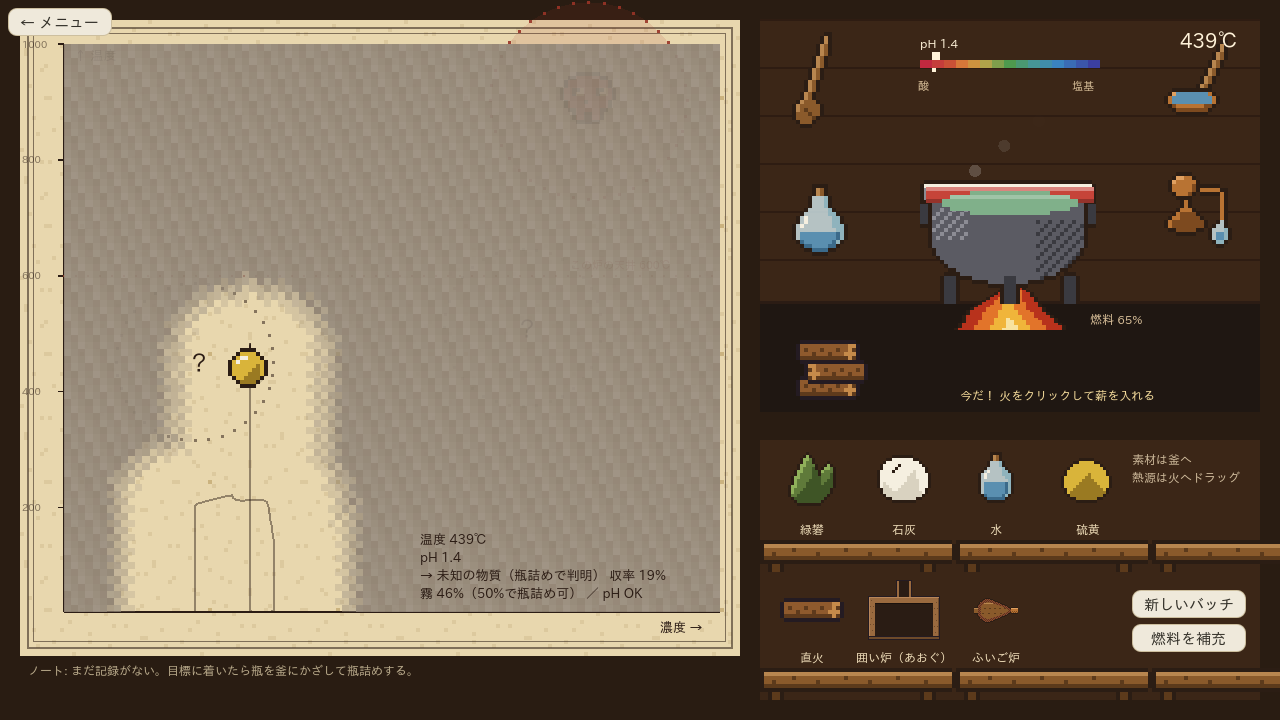
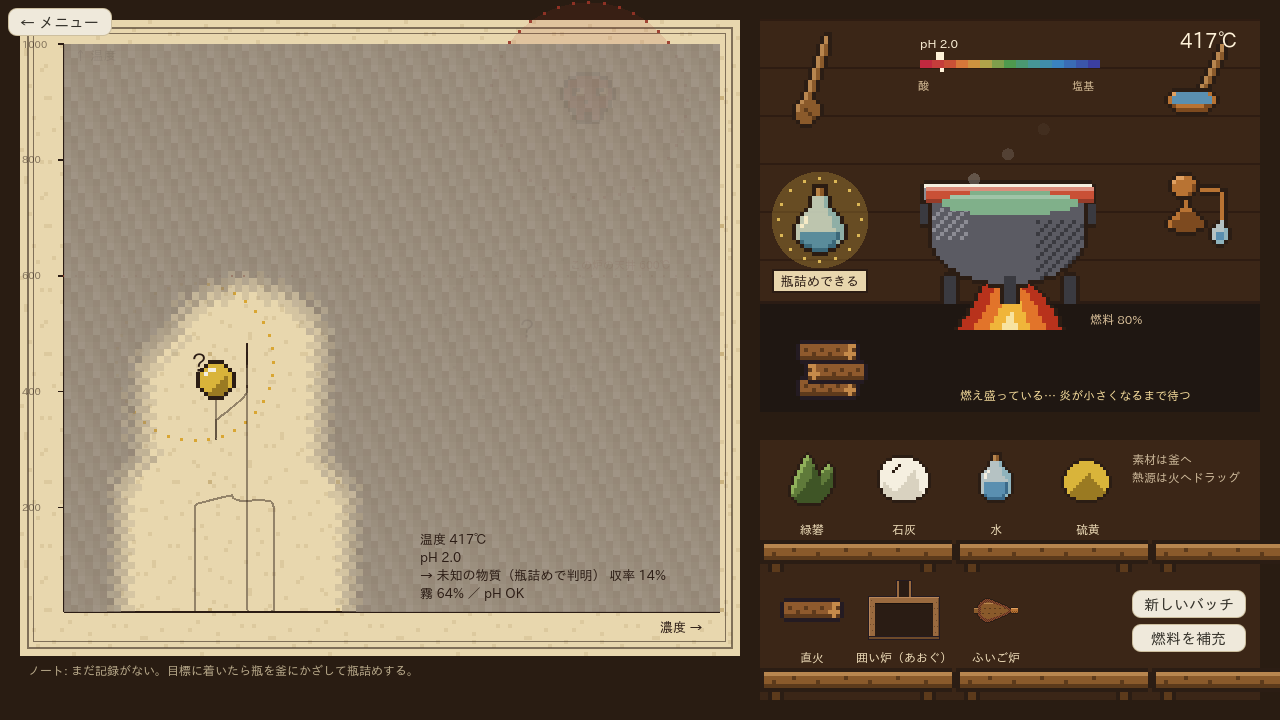
Make the bottle glow when bottling is possible
瓶詰めできる状態の合図（仮・案1）: 掛けてある瓶が反応する。

- alchemy_lab.gd: 瓶詰めの判定を _bottle_check() に一本化（円の中 → 霧 50% → pH の順に理由を返す）。
  瓶の光り方と、瓶をかざしたときの断りの一言が同じ答えを見る
- cauldron_station.gd: 条件を満たすと掛けてある瓶が金色に明滅し（光輪＋点線の輪）、下に
  「瓶詰めできる」のインク札。満たさない間は瓶を少し暗く
- docs/design/alchemy-lab.md に追記。実スクショを更新

Claude-Session: https://claude.ai/code/session_01FSKeZJFgvj51DQoS47Yb1w

diff --git a/docs/design/alchemy-lab.md b/docs/design/alchemy-lab.md
@@ -50,7 +50,9 @@ Potion Craft の霧と同じ約束を `core/reactions/map_exploration.gd`（`Map
 - 目標は晴れても**「？」のまま**。到達中の読み出しも「未知の物質（瓶詰めで判明）」。
 - **瓶詰めの条件**: 目標の円の中にいること ＋ **円の内側のモヤが半分以上晴れている**こと（`clear_ratio ≥ 0.5`）＋ pH 条件。
   霧が濃ければ「霧が濃くてまだ見えない…（xx% / 50%）」、pH が外れていれば「円の中だが pH が条件外」と断る。
-  目標の輪は晴れ具合で濃くなり、半分を超えると金色になる（＝瓶詰めできる合図）。
+  目標の輪は晴れ具合で濃くなり、半分を超えると金色になる。
+- **瓶詰めできる合図**（仮）: 条件を満たすと掛けてある**瓶が金色に明滅**し、下に「瓶詰めできる」の札が出る。
+  満たさない間は瓶が少し暗い。判定は `AlchemyLab._bottle_check()` の一つの答えを瓶・ドロップ・断りの一言が共有する。
 - **瓶詰め（生成）で発見**＝名前がマップに付き、領域の周り（半径＋1.0）のモヤが広めに晴れる。初回は「新発見！」。
 - 暴走域はモヤが晴れれば名前が出る（危険は隠さない）。
 - 描画はプロット領域を 92×80 のセルで覆う低解像度テクスチャ。4 段階に量子化し縁を市松で抜く（ドット絵の霧）。
